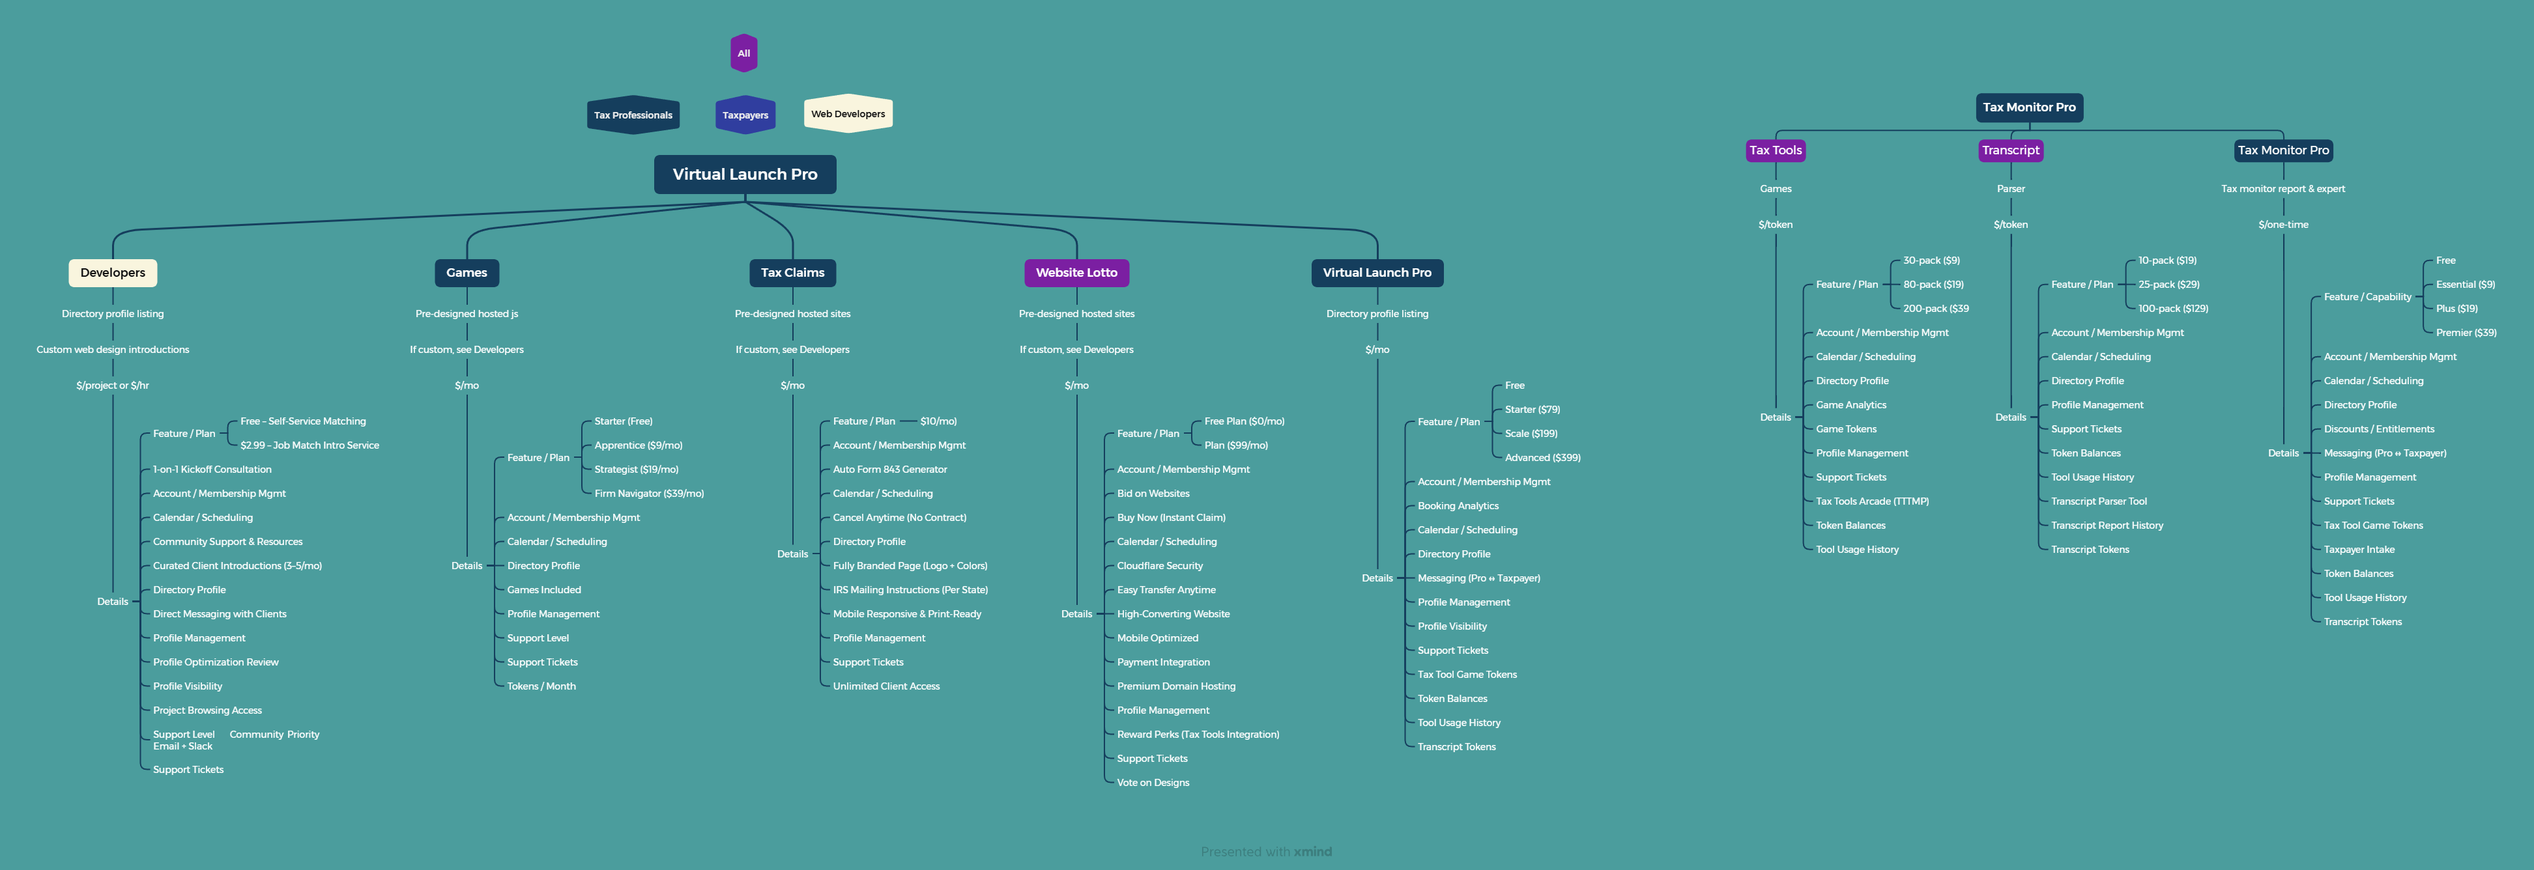
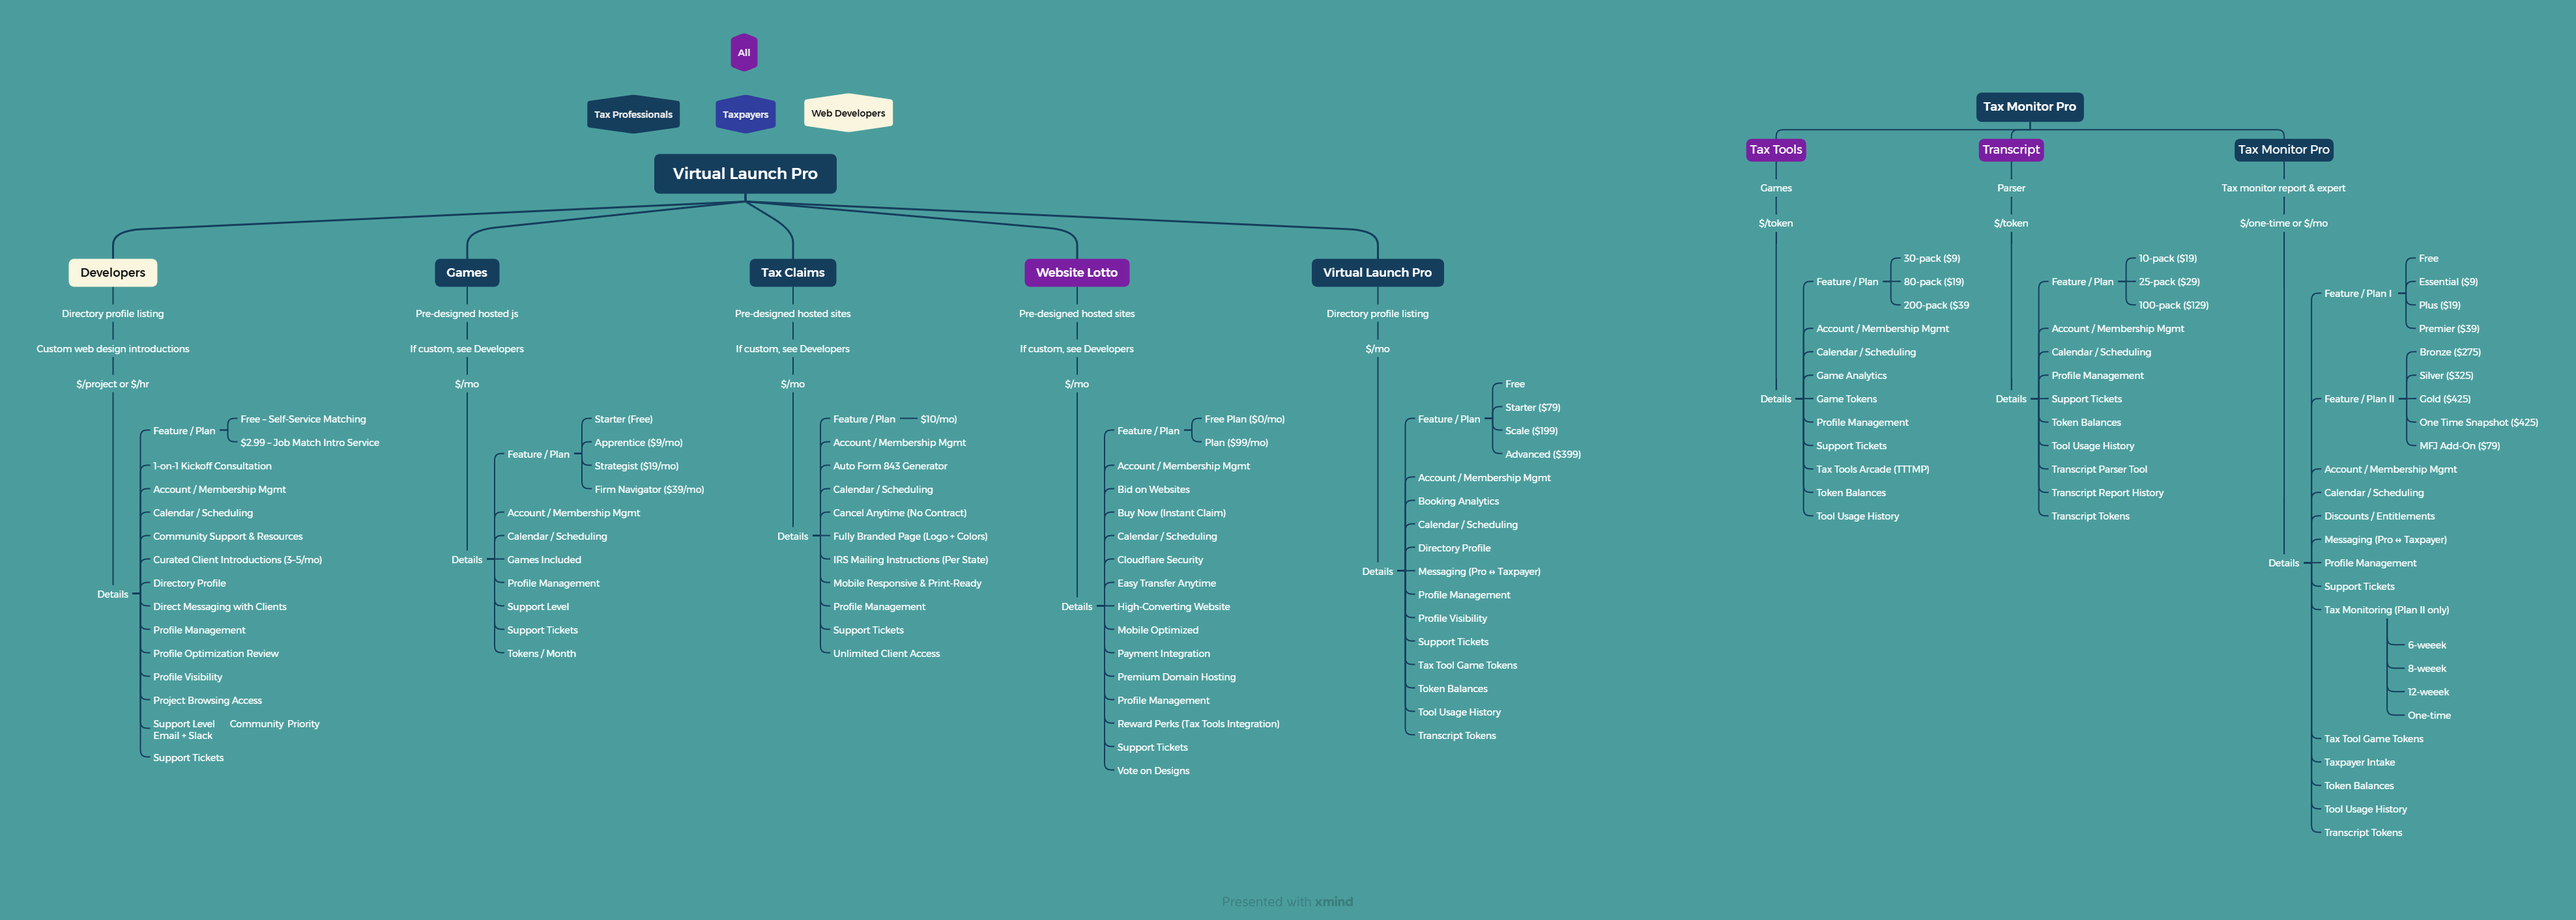
Changes to be committed: modified:   ECOSYSTEM.png modified:   contracts/registries/tmp-registry.json new file:   contracts/tmp/tmp.directory.list.v1.json new file:   workers/migrations/0018_location_columns.sql modified:   workers/src/index.js

diff --git a/workers/src/index.js b/workers/src/index.js
@@ -5730,6 +5730,112 @@ TTMP Support Team
     },
   },
 
+  // -------------------------------------------------------------------------
+  // TMP (Tax Monitor Pro) Routes
+  // -------------------------------------------------------------------------
+
+  {
+    method: 'GET', pattern: '/v1/tmp/directory',
+    handler: async (_method, _pattern, _params, request, env) => {
+      // Parse query parameters
+      const url = new URL(request.url);
+      const specialty = url.searchParams.get('specialty') || null;
+      const city = url.searchParams.get('city') || null;
+      const state = url.searchParams.get('state') || null;
+      const zip = url.searchParams.get('zip') || null;
+      const page = Math.max(1, Math.min(100, parseInt(url.searchParams.get('page')) || 1));
+
+      // Build query
+      let query = `SELECT professional_id, display_name, bio, specialties, cal_booking_url, city, state, zip
+                   FROM profiles
+                   WHERE status = 'active'`;
+      const params = [];
+
+      // Filter by specialty if provided (case-insensitive)
+      if (specialty) {
+        query += ` AND LOWER(specialties) LIKE LOWER(?)`;
+        params.push(`%${specialty}%`);
+      }
+
+      // Filter by city if provided (case-insensitive)
+      if (city) {
+        query += ` AND LOWER(city) LIKE LOWER(?)`;
+        params.push(`%${city}%`);
+      }
+
+      // Filter by state if provided (case-insensitive)
+      if (state) {
+        query += ` AND LOWER(state) LIKE LOWER(?)`;
+        params.push(`%${state}%`);
+      }
+
+      // Filter by zip if provided (case-insensitive)
+      if (zip) {
+        query += ` AND LOWER(zip) LIKE LOWER(?)`;
+        params.push(`%${zip}%`);
+      }
+
+      // Pagination
+      const limit = 20;
+      const offset = (page - 1) * limit;
+      query += ` ORDER BY created_at DESC LIMIT ? OFFSET ?`;
+      params.push(limit, offset);
+
+      try {
+        // Execute query
+        const result = await env.DB.prepare(query).bind(...params).all();
+
+        // Get total count for pagination
+        let countQuery = `SELECT COUNT(*) as total FROM profiles WHERE status = 'active'`;
+        const countParams = [];
+        if (specialty) {
+          countQuery += ` AND LOWER(specialties) LIKE LOWER(?)`;
+          countParams.push(`%${specialty}%`);
+        }
+        if (city) {
+          countQuery += ` AND LOWER(city) LIKE LOWER(?)`;
+          countParams.push(`%${city}%`);
+        }
+        if (state) {
+          countQuery += ` AND LOWER(state) LIKE LOWER(?)`;
+          countParams.push(`%${state}%`);
+        }
+        if (zip) {
+          countQuery += ` AND LOWER(zip) LIKE LOWER(?)`;
+          countParams.push(`%${zip}%`);
+        }
+        const countResult = await env.DB.prepare(countQuery).bind(...countParams).first();
+        const total = countResult?.total || 0;
+
+        // Process results - truncate bio and remove account_id
+        const professionals = result.results.map(prof => ({
+          professional_id: prof.professional_id,
+          display_name: prof.display_name,
+          bio: prof.bio ? prof.bio.substring(0, 200) : null,
+          specialties: prof.specialties,
+          cal_booking_url: prof.cal_booking_url,
+          city: prof.city,
+          state: prof.state,
+          zip: prof.zip
+        }));
+
+        return json({
+          ok: true,
+          professionals,
+          page,
+          total
+        });
+      } catch (error) {
+        console.error('Directory listing error:', error);
+        return json({
+          ok: false,
+          error: 'INTERNAL_ERROR',
+          message: 'Internal server error'
+        }, 500);
+      }
+    },
+  },
+
 ];
 // ---------------------------------------------------------------------------
 // Router
